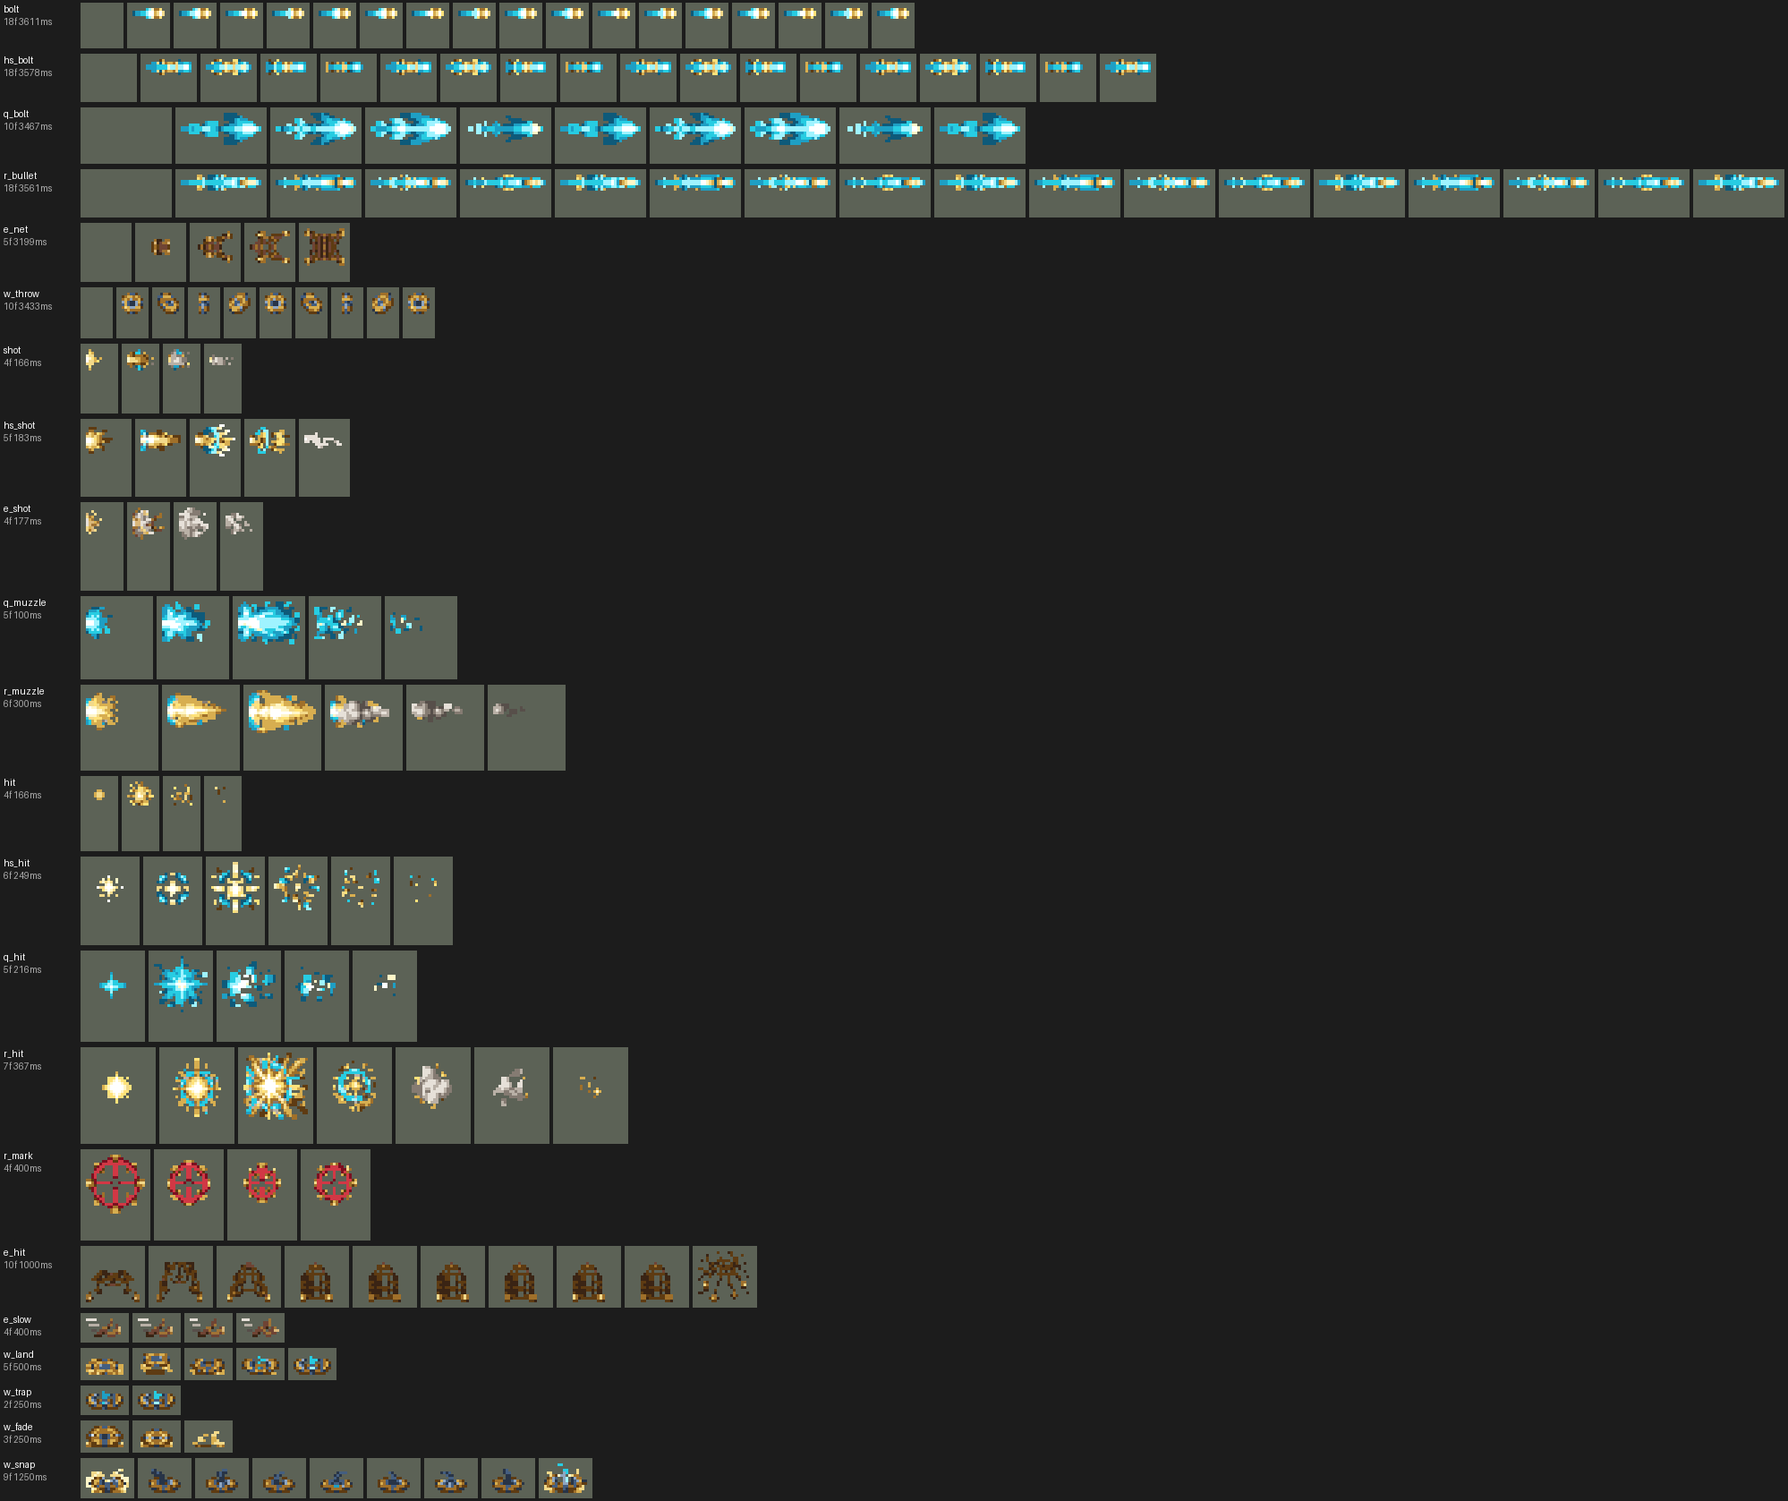
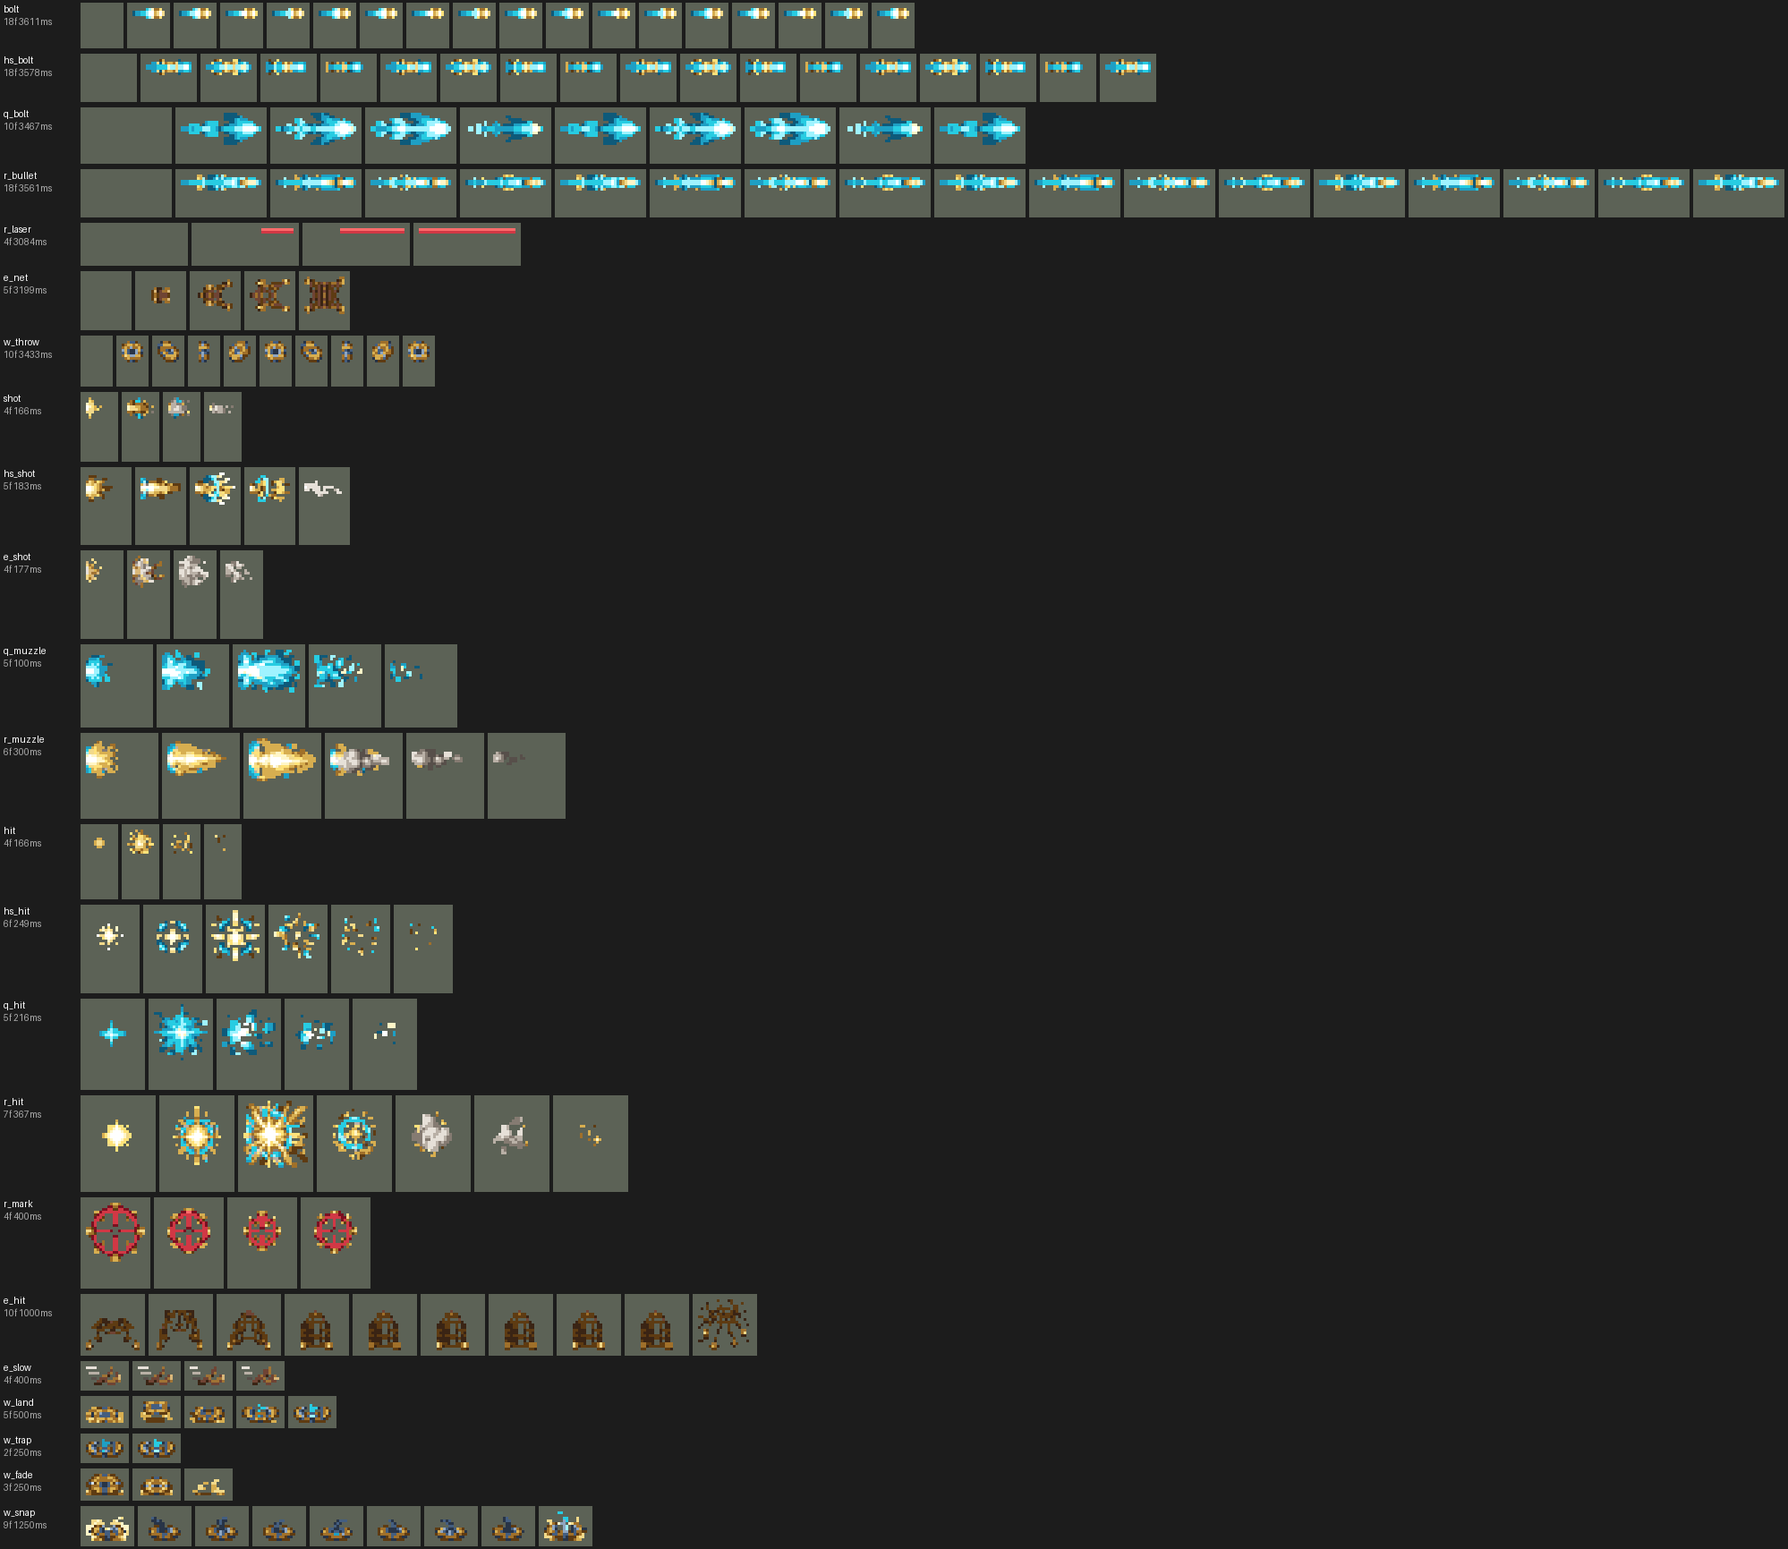
Caitlyn R: a red laser sight from her rifle to the target while she channels
From tick 10 of Ace in the Hole (the rifle is level on tick 12) an AddCasted on the
target sends a link every 2 ticks while the channel holds: a TargetProjectile at him
(12000 a tick, the bullet's height) with no effects, whose picture is a red link that
grows 12, 24, 36 px with its head on the projectile, so the links make one line from
the muzzle that ends on him. Drawn under the units; it stops when the channel breaks
or she fires. mod 0.42.11.

Changed region(s): [[0.0, 0.031, 1.0, 0.9922]]

diff --git a/tools/art/caitlyn_r_laser.py b/tools/art/caitlyn_r_laser.py
@@ -1,0 +1,55 @@
+#!/usr/bin/env python3
+"""Caitlyn's laser sight for Ace in the Hole (the user, 2026-10-02: "女警大招释放时候没有线 补一个特效吧 不然中没中 打谁的都
+不知道" - League draws a red line from her rifle to the target while she channels).
+
+    python tools/art/caitlyn_r_laser.py      # writes assets/source/caitlyn/caitlyn_fx_r_laser.png + its anchors entry
+
+The line is a train of links (league_fiddlesticks W's chain): during the channel the kit sends a TargetProjectile at the
+target every 2 ticks at 12000 a tick (24 px apart) and each link grows 12, 24, 36 px a tick after it leaves the
+rifle, so the newest link always reaches back to the muzzle and the older ones overlap: one unbroken line that ends
+on him (a homing projectile is removed on its target). Each link is drawn pointing right with its head on the anchor
+and the tail behind, 2 px thick in the crosshair's reds (FF6A6A over D13845); tools/art/import_caitlyn.py keeps it
+hidden until its head is out of the rifle (also the spawn tick, when a TargetProjectile's view points straight up,
+champion-data "A beam from a raised weapon").
+"""
+import json
+import os
+
+import numpy as np
+from PIL import Image
+
+HERE = os.path.dirname(os.path.abspath(__file__))
+ROOT = os.path.dirname(os.path.dirname(HERE))
+SRC = os.path.join(ROOT, "assets", "source", "caitlyn")
+Z = 8
+LENGTHS = (12, 24, 36)
+CORE, EDGE = (0xFF, 0x6A, 0x6A, 255), (0xD1, 0x38, 0x45, 255)
+W, H = 37, 3                     # the head is column 35 (its right edge the anchor, 36.0); rows 1 (core), 2 (edge)
+
+
+def lp(p):
+    p = os.path.abspath(p)
+    return "\\\\?\\" + p if os.name == "nt" and not p.startswith("\\\\") else p
+
+
+def main():
+    cells = []
+    for n in LENGTHS:
+        a = np.zeros((H, W, 4), np.uint8)
+        a[1, W - 1 - n:W - 1] = CORE
+        a[2, W - 1 - n:W - 1] = EDGE
+        cells.append(a)
+    strip = np.concatenate(cells, axis=1)
+    big = np.repeat(np.repeat(strip, Z, axis=0), Z, axis=1)
+    Image.fromarray(big, "RGBA").save(lp(os.path.join(SRC, "caitlyn_fx_r_laser.png")))
+    path = lp(os.path.join(SRC, "caitlyn_fx_anchors.json"))
+    with open(path, encoding="utf-8") as f:
+        anchors = json.load(f)
+    anchors["r_laser"] = {"cell": [W, H], "anchor": [float(W - 1), 2.0], "frames": len(LENGTHS), "ticks": [1, 1, 1]}
+    with open(path, "w", encoding="utf-8") as f:            # the file's own layout: one strip a line
+        f.write("{\n" + ",\n".join(f"  {json.dumps(k)}: {json.dumps(v)}" for k, v in anchors.items()) + "\n}\n")
+    print("wrote caitlyn_fx_r_laser.png and its anchors")
+
+
+if __name__ == "__main__":
+    main()

diff --git a/tools/art/preview_caitlyn.py b/tools/art/preview_caitlyn.py
@@ -12,7 +12,8 @@
                                shut on him, rooting him, and her next shot is a Headshot from the trap; Garen comes
                                up behind him; Piltover Peacemaker, locked on Garen, pierces Darius on its way and
                                Darius falls; Ace in the Hole:
-                               the crosshair on Garen for the 1 s channel, then the long shot; 3x
+                               the crosshair on Garen and her red laser sight on him for the 1 s
+                               channel, then the long shot down the line; 3x
 Projectiles fly as the kit flies them: from over her pivot, lifted to the muzzle's height (5000 - y_offset), at the
 target's pivot, turned to their way; their tags start empty while they cross her (tools/art/import_caitlyn.py).
 """
@@ -36,6 +37,7 @@ CHAMP = os.path.join(LEAGUE, "champions", "league_caitlyn")
 FX = os.path.join(LEAGUE, "effects", "league_caitlyn_fx")
 # the kit's projectiles: speed in px a tick, lift over her pivot in px (5000 - y_offset)
 BOLT, HS, NET, Q, R = (7.0, 6.5), (9.0, 8.0), (6.0, 11.5), (10.0, 7.5), (20.0, 9.0)
+LASER, LASER_EVERY, LASER_FROM = (12.0, 9.0), 2, 10    # R's laser sight: a link every 2 ticks from tick 10
 
 
 class Turned(Anim):
@@ -173,6 +175,12 @@ def showcase(out, z=3, step=40):
     # Ace in the Hole on Garen: the crosshair for the 60-tick channel, the shot on tick 61, 20 px a tick
     r0 = t
     on(g, "r_mark", r0 + tick(1), until=r0 + tick(61))
+    # her laser sight: a link at him every 2 ticks of the channel, under the units (the rifle covers its start)
+    for k in range((60 - LASER_FROM) // LASER_EVERY + 1):
+        s0 = r0 + tick(LASER_FROM + LASER_EVERY * k)
+        lx, ly = g.pos(s0)
+        arrive = s0 + tick(max(1.0, math.hypot(lx - x, ly - (gy - LASER[1])) / LASER[0]))
+        under.append(Turned(frames_of(fx, "r_laser"), s0, x, gy - LASER[1], until=arrive, x1=lx, y1=ly))
     rf = r0 + tick(61)
     flash("r_muzzle", rf)
     gx, gy2 = g.pos(rf)

diff --git a/tools/art/import_caitlyn.py b/tools/art/import_caitlyn.py
@@ -60,7 +60,7 @@ HIT = (0, -8)                          # a hit on the upper body of a 32-42 px u
 SOLES = 11                             # the soles' row under the pivot
 # each projectile: the muzzle it leaves
 LEAVES = {"bolt": "attack", "hs_bolt": "passive", "hs_trap_bolt": "passive", "e_net": "e", "q_bolt": "skill",
-          "r_bullet": "ult"}
+          "r_bullet": "ult", "r_laser": "ult"}
 
 
 
@@ -175,6 +175,10 @@ def build():
         "hs_bolt": [("hs_bolt", proj["hs_bolt"], (0, 0), "point")],
         "q_bolt": [("q_bolt", proj["q_bolt"], (0, 0), "point")],
         "r_bullet": [("r_bullet", proj["r_bullet"], (0, 0), "point")],
+        # R's laser sight (tools/art/caitlyn_r_laser.py): a link's head on its projectile, hidden until it is out of
+        # the rifle, then 12, 24 and 36 px (the tail stays on the muzzle until the next link shows) until it reaches him
+        "r_laser": [("r_laser", [(None, round(lead("r_laser", speeds) * TICK)), (0, round(TICK)), (1, round(TICK)),
+                                 (2, 3000)], (0, 0), "point")],
         "e_net": [("e_net", net, (0, 0), "point")],
         "w_throw": [("w_throw", throw, (0, 0), "point")],
         "shot": [("shot", own("shot"), tip("attack"), "point")],

diff --git a/README.md b/README.md
@@ -1614,11 +1614,11 @@ python tools/art/preview_shaco.py
 | 技能1 | Q「和平使者」：朝 120000 内的敌人施放（小兵和野怪也算，清线、打野也用），冷却 8 秒。第 1 tick 响起上膛声，第 24 tick 射出（动作第 7 帧）。瞄准在开枪前 8 tick 锁定：那时 100000 内有敌方英雄，就朝他那一刻的位置射（一个隐形的抛物线飞行物落在那里，落地时从她身上朝落点开枪，子弹飞到落点为止），没有就按施放方向；锁定后走开就能躲（用户：「Q是可以躲得 现在百发百命中」：原来开枪那一刻才瞄准，几乎必中）。锁在前摇一开始时，瞄英雄的子弹只中 16%（AI 的英雄一直在走动），锁在开枪前 12 tick 中 28%、8 tick 中约 4 成，取 8。穿透，每 tick 10000、半径 6000，第一个打中的单位受到 60 + 110% 攻击力的物理伤害，后面的受 60%。射出写在第 1 tick 开始的延迟里，动作被打断也照样射出 |
 | 技能2 | W「约德尔诱捕器」（用户选：W 单独一格）：3 层充能，每 12 秒回一层，朝 80000 内的敌方英雄扔（方向型施法），落地 30 tick 后布好，存在 8 秒；第一个踩上的敌方英雄被定身 1.5 秒，她接下来的一枪爆头打他（见被动）。同时最多 3 个夹子（提莫 R 的三个槽位），各放一处，不叠在一起（用户：「会在一个位置无限放夹子 应该错开来放吧」：原来每个都扔在他脚下，AI 一口气用掉 3 层充能就叠成一堆，4 局里同时在场的夹子 52 对有 19 对叠着）：第一个夹子碰到路上第一个敌方英雄就停、落在他脚下；它还在时，第二、三个落在瞄准线上离她 35000、58000 处（飞行物在方向型施法里飞到 施法者 + 方向 × 射程 为止，结束效果在停下的点上运行）。现在 99 对里 11 对挨着。夹子的范围咬人时先拿掉自己的标记，所以一个夹子只咬一个英雄。从投掷物落点生成的范围在她死后照样运行，她的状态又被冻结、标记拿不掉，会每 tick 咬一次（模拟 16 局在她死后咬了 285 次）；所以咬之前先找她自己（`RandomTarget {AllyOnlySelf, range: 1}` 找不到死人），找到才定身（16 局死后 0 次）。定身仍直接写在范围里，AI 照常放 W；把定身挪进延迟一 tick 的飞行物（main 上金克丝 E 的修法）也一样安全，但 AI 每局只扔 13 个、夹中 6 次。夹子咬住英雄后，定身期间和之后 1 秒内 W 的效果是空的（`w_hold`）：AI 按当时的状态给技能打分，看到空分支就不放，充能留着（用户：「W敌人踩上去后会连放 这个要改一改 其他时候没问题」：被定住的英雄站着不动，AI 会把剩下的充能接连扔到他身上，每局 4.6 次在夹中后 2.25 秒内又扔，松开后又被夹；现在 0 次）。中间试过改成 1 层、冷却 8 秒，连放也没了，但每局少 0.46 个击杀，没用。模拟每局扔约 15 次、夹中约 8.6 次（之前 19 次、11 次；AI 的英雄攻击时站着不动） |
 | E（并入普攻） | E「90 口径绳网」（用户选：E 并入普攻，当逃生用）：普攻第 1 tick，E 好了（冷却 12 秒）而且 25000 内（中心距约 45000）有敌方英雄时，这一枪换成绳网：另一条 34 tick 的动作，第 6 tick 射出网（每 tick 6000），打中造成 60 + 60% 攻击力的物理伤害、减速 50%（1 秒），下一枪必爆头；第 7 tick 起每 tick 5000、共 6 tick 往后跳开 30000，正对着那个英雄的反方向（伊泽瑞尔 E 的做法）。模拟每局约 2.5 次 |
-| 大招 | R「让子弹飞」（用户选：直线快弹，可被英雄挡下）：对 200000 内的敌方英雄施放，冷却 50 秒。瞄准 1 秒（他身上出现准星），期间她被控制就取消（厄运小姐 R 的检查，每 10 tick 一次）；第 61 tick 射出一发不穿透的子弹（每 tick 20000，半径 8000），只对敌方英雄生效：路上第一个敌方英雄受到 250 + 150% 攻击力的物理伤害（小兵不挡）。模拟每局放约 6 次，九成打中英雄 |
+| 大招 | R「让子弹飞」（用户选：直线快弹，可被英雄挡下）：对 200000 内的敌方英雄施放，冷却 50 秒。瞄准 1 秒（他身上出现准星；用户：「女警大招释放时候没有线 补一个特效吧 不然中没中 打谁的都不知道」，所以从端平枪的第 12 tick 起，她的枪口到他身上有一条红色瞄准线，开枪时子弹沿着这条线飞过去），期间她被控制就取消（厄运小姐 R 的检查，每 10 tick 一次）；第 61 tick 射出一发不穿透的子弹（每 tick 20000，半径 8000），只对敌方英雄生效：路上第一个敌方英雄受到 250 + 150% 攻击力的物理伤害（小兵不挡）。模拟每局放约 6 次，九成打中英雄 |
 | 数值 | 攻击 100（+20）、生命 900（+90）、护甲 20（+7）、魔抗 15（+3）、移速 900（+9），攻击间隔 1 秒，射程 65000。数值是自己设计的，用 SDK 对战模拟调：下路，对 4 个原版射手（`gunner`、`soldier`、`archer`、`gambler`），三套队友阵容、两边各 12 局，一批 288 局。第一版 +2.60（同一批薇恩 +2.15、卢锡安 +2.28、崔丝塔娜 +1.82）；Q 改成从第 1 tick 开始的延迟里射出后 +3.24，偏强；夹子定身 1.5 秒改 1.25 秒、Q 加成 130% 改 110%、爆头 180% 改 170% 后两批 +2.16 / +2.30（同一批薇恩 +2.08 / +2.16、卢锡安 +2.45 / +2.25、崔丝塔娜 +2.30 / +2.62），定下这版。子弹改从放低的枪口出发后（`y_offset` 见下）两批 +2.24 / +1.83（同样的种子，改前 +2.16 / +2.30），在一批的波动内，不用调。Q 改成能躲、W 错开放之后两批 +1.80 / +2.01（Q 打中英雄少了，伤害约少 5%）；W 不再接连扔到被夹住的人身上之后两批 +1.42 / +1.27，连夹原来贡献了不少击杀，定身改回 1.5 秒、爆头改回 180% 后两批 +1.59 / +1.78（爆头 180% 加 Q 130% 是 +1.33 / +1.11，没用），定下这版，比本包其他 ADC 略弱。每局放 Q 约 47 次、W 约 19 次、R 约 5.7 次 |
 | 亚索联动 | W 的定身是亚索大招要的控制：凯特琳打下路、亚索打上路同队时，亚索每局 R 到被控英雄 0.75 次（同一批原版弓箭手 0.65、薇恩 1.92、崔丝塔娜 1.08），亚索不用调 |
 | 精灵图 | 10 个动作 67 帧：待机、移动、普攻、爆头、Q、W、E、R、受击、死亡。造型按用户在 Codex 里挑的原画（A：步枪斜握在身前），由 Codex 按游戏尺寸画：紫色大礼帽（金色饰纹、青色宝石）、深蓝长发、蓝眼睛、白衬衫和领巾、紫色短外套和裙子、棕色长靴，金色长步枪（青色瞄准镜）。礼帽顶到脚底 41 px，24 色 |
-| 特效 | 普攻的子弹（12 px，上下对称，游戏会转到飞的方向）、枪口火光和烟（10 px）、命中的金色火花（10 px）；爆头的长弹（18 px）、枪口火光加青色光环（16 px）、命中的十字闪光（20 px）；Q 的青色能量弹（32 px）、枪口的青光（24 px）和命中（22 px）；E 飞出时展开的绳网（16 px）、枪口火光和烟（12 px）、罩在英雄身上的网（22 px，网孔透明）和脚边的碎网（减速）；W 翻滚着飞出的夹子（8 px）、落地、趴着等人（两帧一节 15 tick）、到期消失和咬合（18 px）；R 敌人身上的红色准星（24 px）、枪口的大火光（26 px）、长弹（32 px）和命中的大爆闪（28 px） |
+| 特效 | 普攻的子弹（12 px，上下对称，游戏会转到飞的方向）、枪口火光和烟（10 px）、命中的金色火花（10 px）；爆头的长弹（18 px）、枪口火光加青色光环（16 px）、命中的十字闪光（20 px）；Q 的青色能量弹（32 px）、枪口的青光（24 px）和命中（22 px）；E 飞出时展开的绳网（16 px）、枪口火光和烟（12 px）、罩在英雄身上的网（22 px，网孔透明）和脚边的碎网（减速）；W 翻滚着飞出的夹子（8 px）、落地、趴着等人（两帧一节 15 tick）、到期消失和咬合（18 px）；R 敌人身上的红色准星（24 px）、从枪口连到他身上的红色瞄准线（我画的，2 px 粗、准星的红色；引导时每 2 tick 向他发一段 36 px 的线段，每 tick 12 px，一段接一段连成一条线，止于他身上；画在单位下层，枪身盖住线头）、枪口的大火光（26 px）、长弹（32 px）和命中的大爆闪（28 px） |
 | 图标 | 官方技能图标（Q / W / R），64×64 |
 | 音频 | 从本地客户端提取的 15 条技能音效和 6 条中文语音（Q、W、E、R 的喊声，夹中和 R 命中的台词），合成 15 个游戏音效。爆头也有台词，每 6 枪说一次太吵，没用。不提交到仓库，按下面的命令在本地生成 |
 

diff --git a/.claude/skills/tfm2-hero-mod/references/champion-data.md b/.claude/skills/tfm2-hero-mod/references/champion-data.md
@@ -2384,7 +2384,13 @@ from tick 1 the shot comes even when her wind-up is cut short: the same kit with
 crowd-control check every 10 ticks (`RandomTarget {range: 1, casting_target: AllyChampionInCC}` removes the channel
 flag), and at tick 61, if the flag holds, a non-penetrating `LinearProjectile` on `EnemyChampion` (speed 20000, radius
 8000) toward him: the first enemy champion on the line takes 250 + 150% AD, minions do not block. 4.5 of 5 casts a game
-hit a champion.
+hit a champion. Her laser sight (the user: "女警大招释放时候没有线 ... 中没中 打谁的都不知道") is league_fiddlesticks W's chain
+the other way: from tick 10 (the rifle level on tick 12) an `AddCasted` on him (period 2, until the channel's end)
+sends, while the channel flag holds, a `TargetProjectile` at him (12000 a tick, the bullet's `y_offset`) with no
+effects; its picture is a red link 2 px thick with its head on the projectile, hidden 3 ticks (out of the rifle), then
+12, 24 and 36 px long, so the newest link reaches back to the muzzle and the older ones overlap into one line that
+ends on him (a homing projectile goes on its target), `z` -1 so her rifle covers its start. Links stop when the
+channel breaks or she fires; the ones in flight run on to him while the bullet follows the line.
 
 **A cleave every fourth attack or on a timer (league_nocturne passive, Umbra Blades).** League's 12 s cooldown, which
 each attack cuts by 1-3 s, comes out at about every fourth attack in a fight. The attack (`start_timing` 1, its hit
